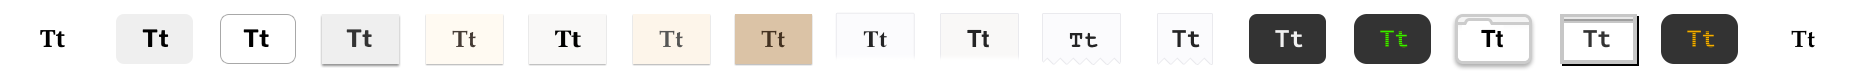
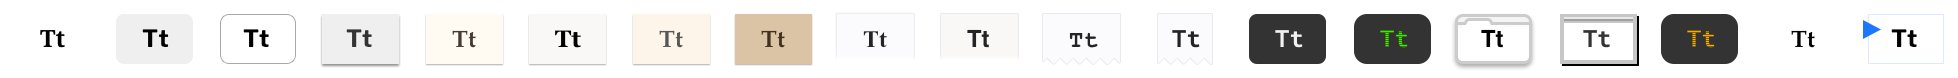
#1181 Added a callout preset.

diff --git a/packages/obonode/obojobo-chunks-excerpt/components/excerpt-edit-controls.scss b/packages/obonode/obojobo-chunks-excerpt/components/excerpt-edit-controls.scss
@@ -152,7 +152,7 @@ $lighter-blue: lighten($color-obojobo-blue, 60%);
 				ideally we could use CSS or SVGs here instead of a png
 				*/
 				// stylelint-disable-next-line unit-disallowed-list
-				background-size: 927px 39px;
+				background-size: 979px 39px;
 				background-repeat: no-repeat;
 
 				@function pos-x($i) {
@@ -230,6 +230,10 @@ $lighter-blue: lighten($color-obojobo-blue, 60%);
 
 				&.icon-excerpt {
 					background-position-x: pos-x(17);
+				}
+
+				&.icon-callout {
+					background-position-x: pos-x(18);
 				}
 			}
 

diff --git a/packages/obonode/obojobo-chunks-excerpt/get-preset-props.test.js b/packages/obonode/obojobo-chunks-excerpt/get-preset-props.test.js
@@ -300,4 +300,19 @@ describe('Get Preset Props', () => {
 
 		expect(getPresetProps('computer-c64')).toEqual(expected)
 	})
+
+	test('callout', () => {
+		const expected = {
+			bodyStyle: 'callout-try-it',
+			width: 'medium',
+			font: 'sans',
+			lineHeight: 'moderate',
+			fontSize: 'smaller',
+			topEdge: 'normal',
+			bottomEdge: 'normal',
+			effect: false
+		}
+
+		expect(getPresetProps('callout')).toEqual(expected)
+	})
 })

diff --git a/packages/obonode/obojobo-chunks-excerpt/get-preset-props.js b/packages/obonode/obojobo-chunks-excerpt/get-preset-props.js
@@ -259,6 +259,19 @@ const getPresetProps = presetName => {
 				effect: false
 			}
 		}
+
+		case 'callout': {
+			return {
+				bodyStyle: 'callout-try-it',
+				width: 'medium',
+				font: 'sans',
+				lineHeight: 'moderate',
+				fontSize: 'smaller',
+				topEdge: 'normal',
+				bottomEdge: 'normal',
+				effect: false
+			}
+		}
 	}
 }
 

diff --git a/packages/obonode/obojobo-chunks-excerpt/components/excerpt-edit-controls.jsx b/packages/obonode/obojobo-chunks-excerpt/components/excerpt-edit-controls.jsx
@@ -90,6 +90,10 @@ const presets = [
 	{
 		label: 'Hacker Orange',
 		value: 'computer-hacker-orange'
+	},
+	{
+		label: 'Callout',
+		value: 'callout'
 	}
 ]
 
